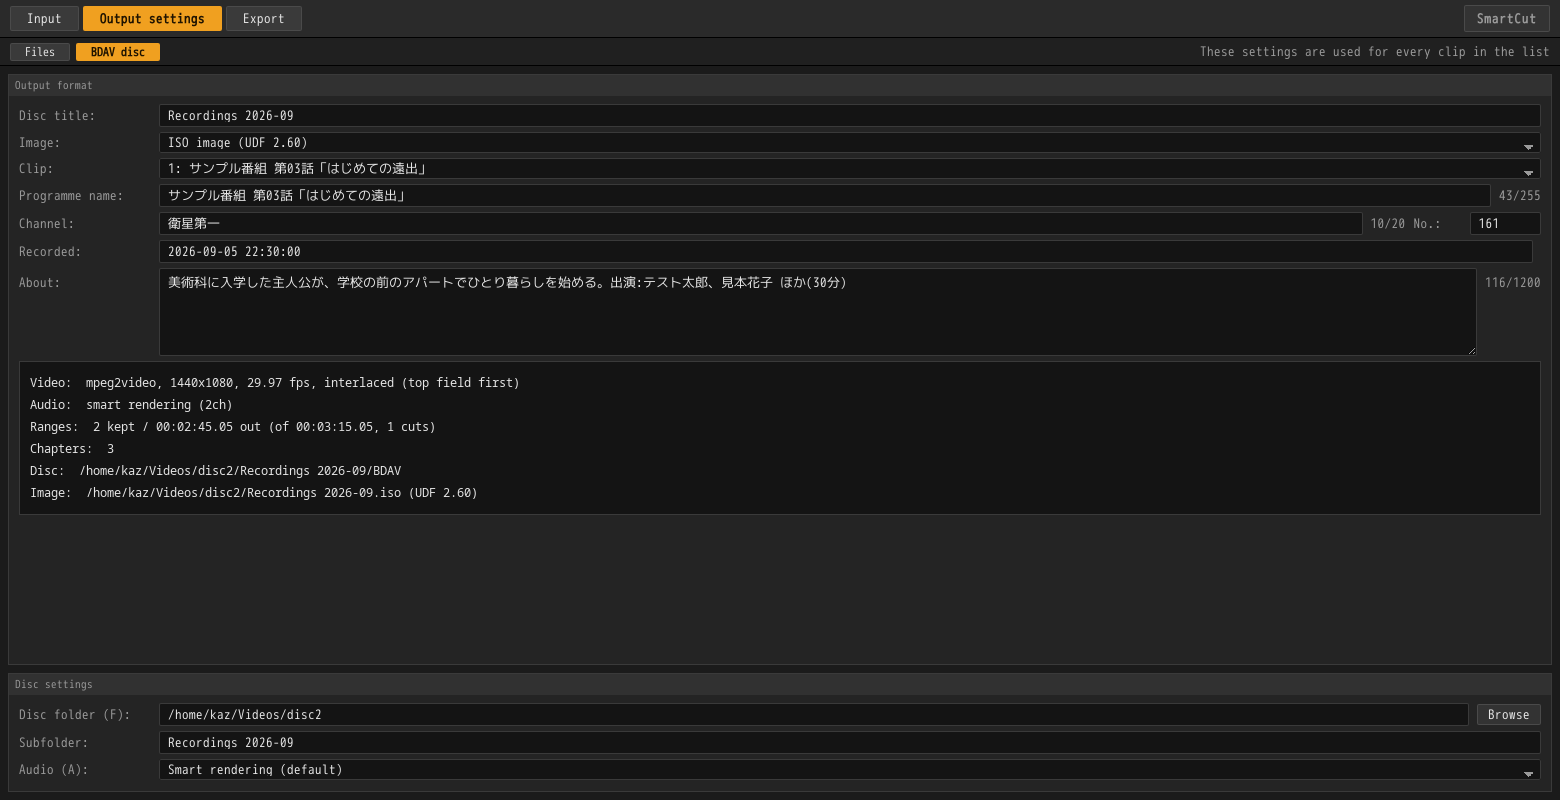
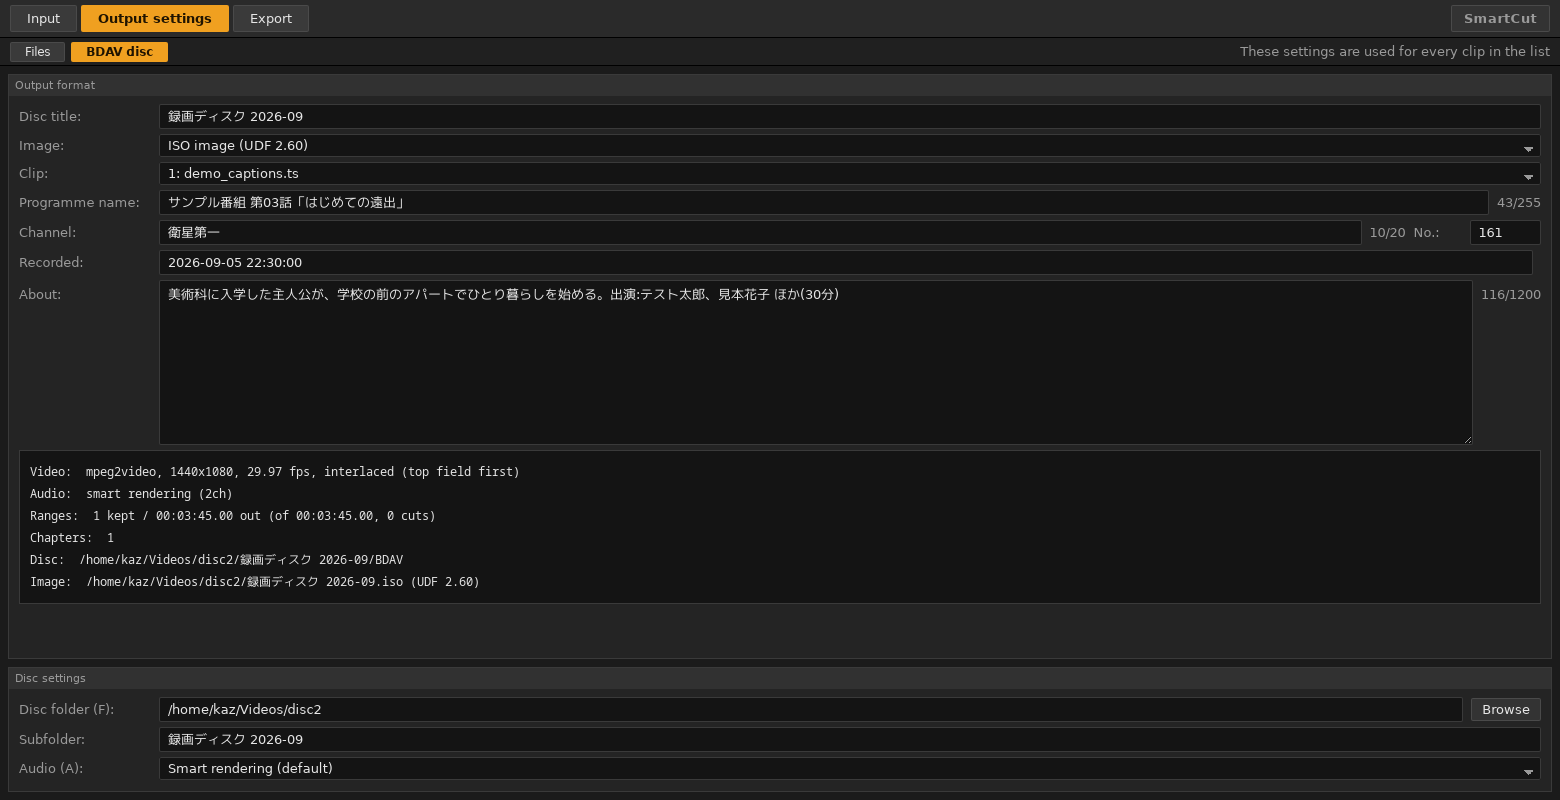
Give a disc's programme description the room it needs
The field a BDAV index carries for what a programme is about holds 1200
bytes -- some four hundred Japanese characters, which is the sentence a
listing prints and the cast and staff under it. The box for it was four
lines, so a full description arrived through a slot: a third of it on
screen and the rest to be scrolled past. The space it now takes was empty.

Eight lines, which is what the field can hold at this width with room left
to type into.

diff --git a/gui/src/index.html b/gui/src/index.html
@@ -203,10 +203,20 @@
           </div>
           <!-- Several hundred characters of it, over as many lines as the
                broadcaster wrote: the sentence a listing carries and the cast
-               and staff under it. So a box rather than a field. -->
+               and staff under it. So a box rather than a field -- and a tall
+               one, because what goes in it is the longest thing on this
+               screen by far and the panel has the room. Four lines showed a
+               third of a full description and left the rest to be scrolled
+               through a slot; the space it now takes was empty.
+
+               Eight lines, because that is what the field can hold: 1200
+               bytes is some four hundred Japanese characters, which comes
+               to five lines at this width. A description arrives whole
+               rather than through a slot, and there is still room to type
+               into. -->
           <div class="row tall" id="row-about" hidden>
             <span data-i18n="outset.about">番組内容:</span>
-            <textarea id="out-about" rows="4" data-i18n-ph="outset.fieldBlank"></textarea>
+            <textarea id="out-about" rows="8" data-i18n-ph="outset.fieldBlank"></textarea>
             <span class="num" id="out-about-bytes"></span>
           </div>
           <pre id="outset-format" class="format" data-i18n="outset.noClips"></pre>
